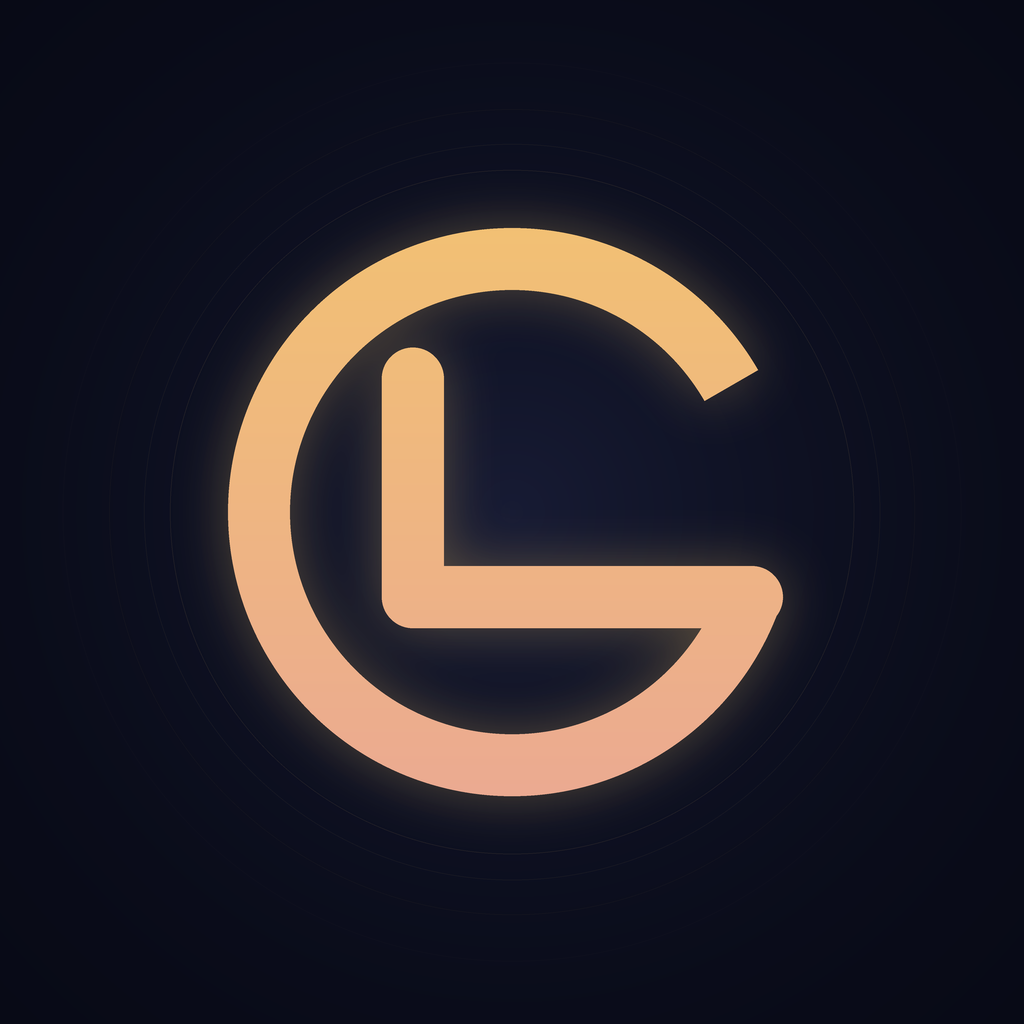
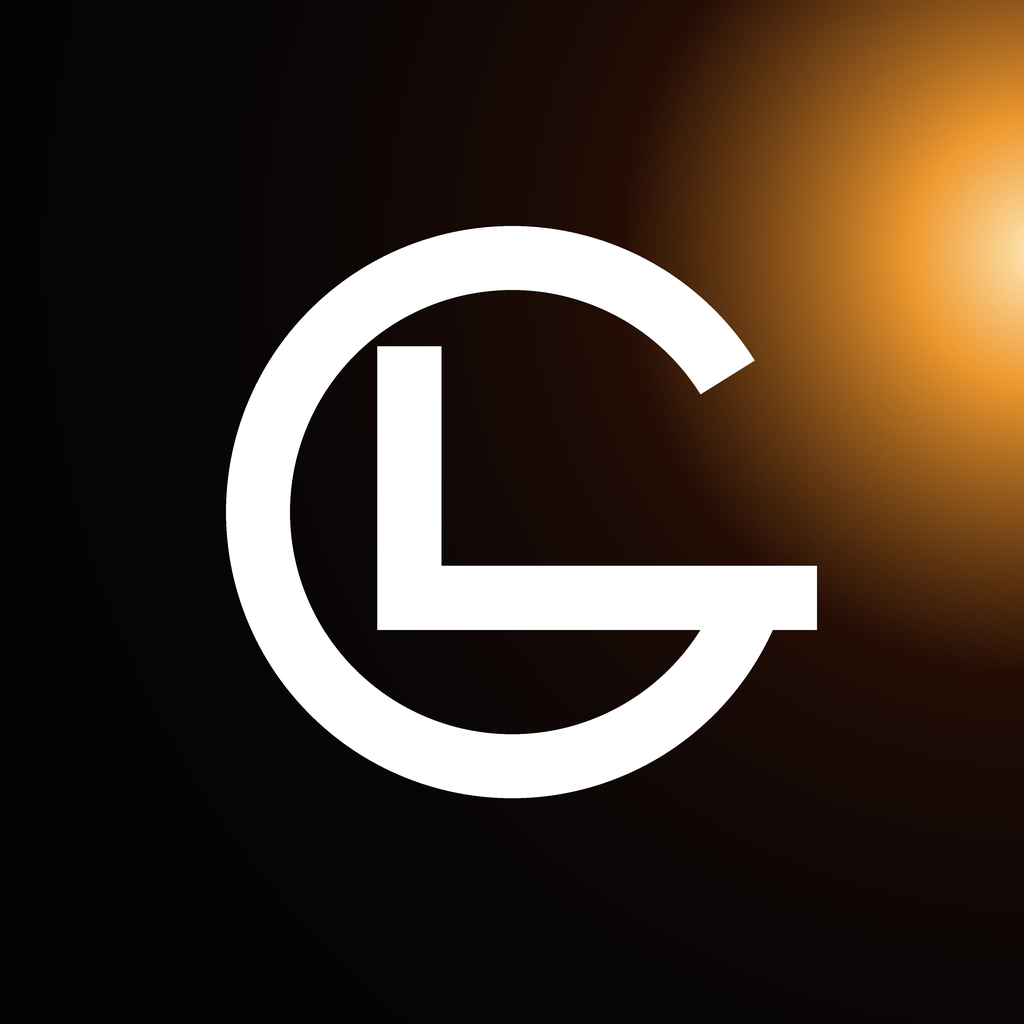
Аватар: свет в фоне, знак плоский
Переработано по дисциплине, которую видно у соседей по рынку: цвет живёт
в фоне, фигура остаётся плоской и белой. Прежняя версия заливала сам знак
градиентом и подсвечивала его снизу — от этого он выглядел мягко и
неуверенно. Белое, оставленное белым, читается лучше.

Источник света поставлен не произвольно в углу, а по геометрии: ровно в
том направлении, куда смотрит разрыв кольца. Буква разомкнута в ту
сторону, откуда бьёт свет, — связь между фоном и фигурой перестаёт быть
случайной.

Ядро вынесено за край кадра намеренно. Пока оно было видно, читалось как
маленькое солнце и спорило со знаком за внимание; осталось одно
затухание. Оттуда же жёсткость спада: при мягком свет заливал половину
кадра и съедал контраст белого.

Срезы штрихов прямые, скругления убраны — фигура читается как
архитектура, а не как надпись.

Проверено на 96 пикселях: в списке чатов знак остаётся различимым, а
тёплое пятно даёт узнаваемость раньше, чем глаз разберёт буквы.

Claude-Session: https://claude.ai/code/session_015oxYo9NmTwSr7ibnzqvLb3

diff --git a/design/render_avatar.py b/design/render_avatar.py
@@ -1,122 +1,107 @@
-"""Аватар бота: монограмма GL по философии «Гало».
+"""Аватар бота: монограмма GL.
 
-Рисуется с четырёхкратным превышением и уменьшается по Ланцошу — PIL сам
-сглаживает дуги плохо, а на краю толстой окружности ступенька видна всем.
+Композиция строится на одном правиле: свет принадлежит фону, знак — плоский.
+Никакого свечения и градиента на самой фигуре; белое остаётся белым, и от
+этого читается уверенно даже размером с ноготь.
+
+Источник света стоит не произвольно, а точно в разрыве кольца: буква
+разомкнута ровно в ту сторону, откуда бьёт свет, будто он оттуда и вышел.
 """
 
-from PIL import Image, ImageDraw, ImageFilter
+import math
 
-SS = 4                      # коэффициент превышения
-SIZE = 1024                 # итоговая сторона
-S = SIZE * SS               # сторона холста при отрисовке
-C = S // 2                  # центр
+from PIL import Image, ImageDraw
 
-# Две температуры и ничего больше: холодная основа, тёплый знак.
-INK_EDGE = (8, 10, 22)
-INK_CORE = (23, 27, 52)
-GOLD = (244, 199, 107)
-ROSE = (232, 160, 158)
+SS = 4                      # превышение: PIL плохо сглаживает дуги
+SIZE = 1024
+S = SIZE * SS
+C = S // 2
+
+# Три остановки от ядра к темноте. Тёплая гамма выбрана как отличие от
+# бирюзы и синевы, которыми занят весь ряд соседей.
+CORE = (255, 236, 190)
+MID = (238, 152, 46)
+DEEP = (36, 13, 5)
+BLACK = (4, 4, 6)
+
+GAP_DIR = -26               # куда смотрит разрыв кольца, градусы
+LIGHT_DIST = 1.16           # ядро уходит за край: видно только затухание
 
 
 def lerp(a, b, t):
     return tuple(round(x + (y - x) * t) for x, y in zip(a, b))
 
 
-def ground(img):
-    """Основа с подъёмом яркости к центру — свет пробивается снизу."""
-    draw = ImageDraw.Draw(img)
-    draw.rectangle([0, 0, S, S], fill=INK_EDGE)
-    steps = 220
-    for i in range(steps, 0, -1):
-        t = i / steps
-        r = int(S * 0.78 * t)
-        # Квадратичное затухание: линейное даёт видимый ореол-кольцо.
-        colour = lerp(INK_CORE, INK_EDGE, 1 - (1 - t) ** 2)
-        draw.ellipse([C - r, C - r, C + r, C + r], fill=colour)
+def ramp(t):
+    """Ядро → тёплая середина → глубокая тень → чёрный."""
+    if t <= 0:
+        return BLACK
+    if t >= 1:
+        return CORE
+    if t > 0.72:
+        return lerp(MID, CORE, (t - 0.72) / 0.28)
+    if t > 0.30:
+        return lerp(DEEP, MID, (t - 0.30) / 0.42)
+    return lerp(BLACK, DEEP, t / 0.30)
 
 
-def rings(img):
-    """Тонкие кольца с возрастающим шагом — затухание, а не сетка."""
-    layer = Image.new("RGBA", (S, S), (0, 0, 0, 0))
-    draw = ImageDraw.Draw(layer)
-    radius = 342 * SS
-    gap = 26 * SS
-    alpha = 30
-    while radius < S * 0.47 and alpha > 2:
-        draw.ellipse(
-            [C - radius, C - radius, C + radius, C + radius],
-            outline=GOLD + (alpha,),
-            width=max(1, SS // 2),
-        )
-        radius += gap
-        gap = int(gap * 1.34)     # шаг растёт — глаз читает как удаление
-        alpha = int(alpha * 0.62)
-    img.alpha_composite(layer)
+def light_field():
+    """Радиальный источник. Считается мелко и растягивается — так гладко
+    и без полос, а построчный проход по 16 миллионам точек не нужен."""
+    n = 360
+    field = Image.new("RGB", (n, n))
+    px = field.load()
 
+    angle = math.radians(GAP_DIR)
+    lx = 0.5 + math.cos(angle) * LIGHT_DIST / 2
+    ly = 0.5 + math.sin(angle) * LIGHT_DIST / 2
+    reach = 1.12
 
-def warm(width, height):
-    """Вертикальный градиент золото → роза для заливки знака."""
-    grad = Image.new("RGB", (1, height))
-    px = grad.load()
-    for y in range(height):
-        px[0, y] = lerp(GOLD, ROSE, (y / (height - 1)) ** 1.15)
-    return grad.resize((width, height), Image.BICUBIC)
+    for y in range(n):
+        fy = y / (n - 1)
+        for x in range(n):
+            fx = x / (n - 1)
+            d = math.hypot(fx - lx, fy - ly) / reach
+            # Квадратичное затухание: линейное оставляет видимую границу.
+            px[x, y] = ramp(max(0.0, 1.0 - d) ** 2.6)
+
+    return field.resize((S, S), Image.BICUBIC)
 
 
 def monogram():
-    """Маска знака: одна горизонталь служит и перекладиной G, и подошвой L.
-
-    Совмещение намеренное. Пока это были две разные линии на почти одной
-    высоте, глаз читал промах, а не замысел; сведённые в одну — читаются
-    как связка двух букв.
-    """
-    import math
-
+    """G — дуга с разрывом, L — вертикаль внутри. Горизонталь общая:
+    она же перекладина G, она же подошва L. Срезы прямые, без скруглений —
+    так фигура читается как архитектура, а не как надпись."""
     mask = Image.new("L", (S, S), 0)
     draw = ImageDraw.Draw(mask)
 
-    r = 284 * SS              # радиус средней линии кольца
-    w = 62 * SS               # толщина
-    box = [C - r, C - r, C + r, C + r]
+    r = 286 * SS
+    w = 64 * SS
 
-    bar_y = C + int(r * 0.30)                 # общая горизонталь
-    end_deg = math.degrees(math.asin(0.30))   # где дуга приходит на эту высоту
+    bar_y = C + int(r * 0.30)
+    end_deg = math.degrees(math.asin(0.30))     # где дуга приходит к горизонтали
 
-    # G: дуга с разрывом справа. Нижний конец обрывается ровно там,
-    # где начинается горизонталь, — стык, а не наложение.
-    draw.arc(box, start=end_deg, end=330, fill=255, width=w)
-
-    right = C + int(r * math.cos(math.radians(end_deg)))
-    left = C - int(r * 0.35)
-
-    draw.rounded_rectangle(
-        [left - w // 2, bar_y - w // 2, right, bar_y + w // 2],
-        radius=w // 2, fill=255,
+    draw.arc(
+        [C - r, C - r, C + r, C + r],
+        start=end_deg, end=360 + GAP_DIR - 6,
+        fill=255, width=w,
     )
 
-    # L: вертикаль опускается в ту же горизонталь.
-    draw.rounded_rectangle(
-        [left - w // 2, C - int(r * 0.58), left + w // 2, bar_y + w // 2],
-        radius=w // 2, fill=255,
-    )
+    right = C + int(r * math.cos(math.radians(end_deg))) + w // 2
+    left = C - int(r * 0.36)
+
+    draw.rectangle([left - w // 2, bar_y - w // 2, right, bar_y + w // 2], fill=255)
+    draw.rectangle([left - w // 2, C - int(r * 0.58), left + w // 2, bar_y + w // 2], fill=255)
+
     return mask
 
 
 def build():
-    img = Image.new("RGBA", (S, S), INK_EDGE + (255,))
-    ground(img)
-    rings(img)
+    img = light_field().convert("RGBA")
 
-    mask = monogram()
-    # Мягкое свечение под знаком: не эффект, а признак того, что источник тёплый.
-    glow = mask.filter(ImageFilter.GaussianBlur(26 * SS))
-    halo = Image.new("RGBA", (S, S), GOLD + (0,))
-    halo.putalpha(glow.point(lambda v: int(v * 0.30)))
-    img.alpha_composite(halo)
-
-    fill = warm(S, S).convert("RGBA")
-    fill.putalpha(mask)
-    img.alpha_composite(fill)
+    white = Image.new("RGBA", (S, S), (255, 255, 255, 0))
+    white.putalpha(monogram())
+    img.alpha_composite(white)
 
     return img.convert("RGB").resize((SIZE, SIZE), Image.LANCZOS)
 
